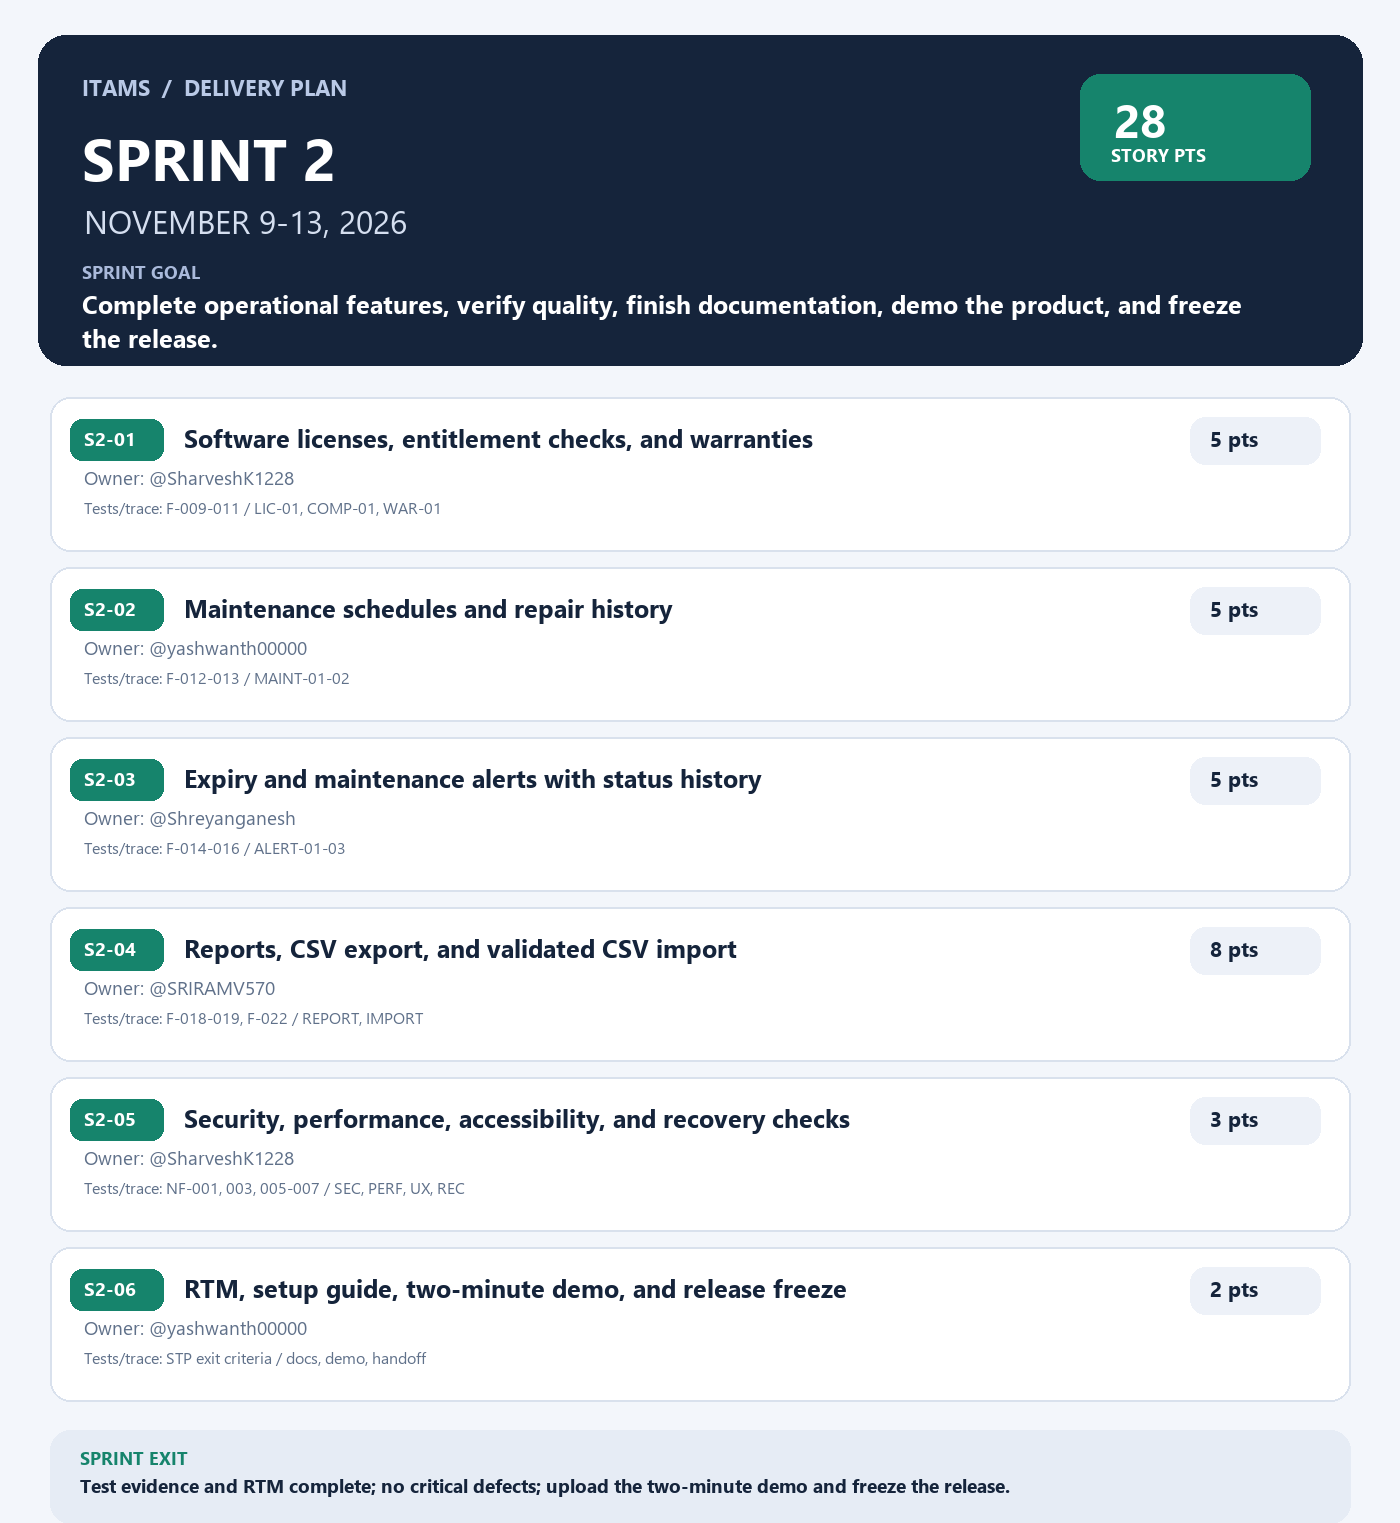
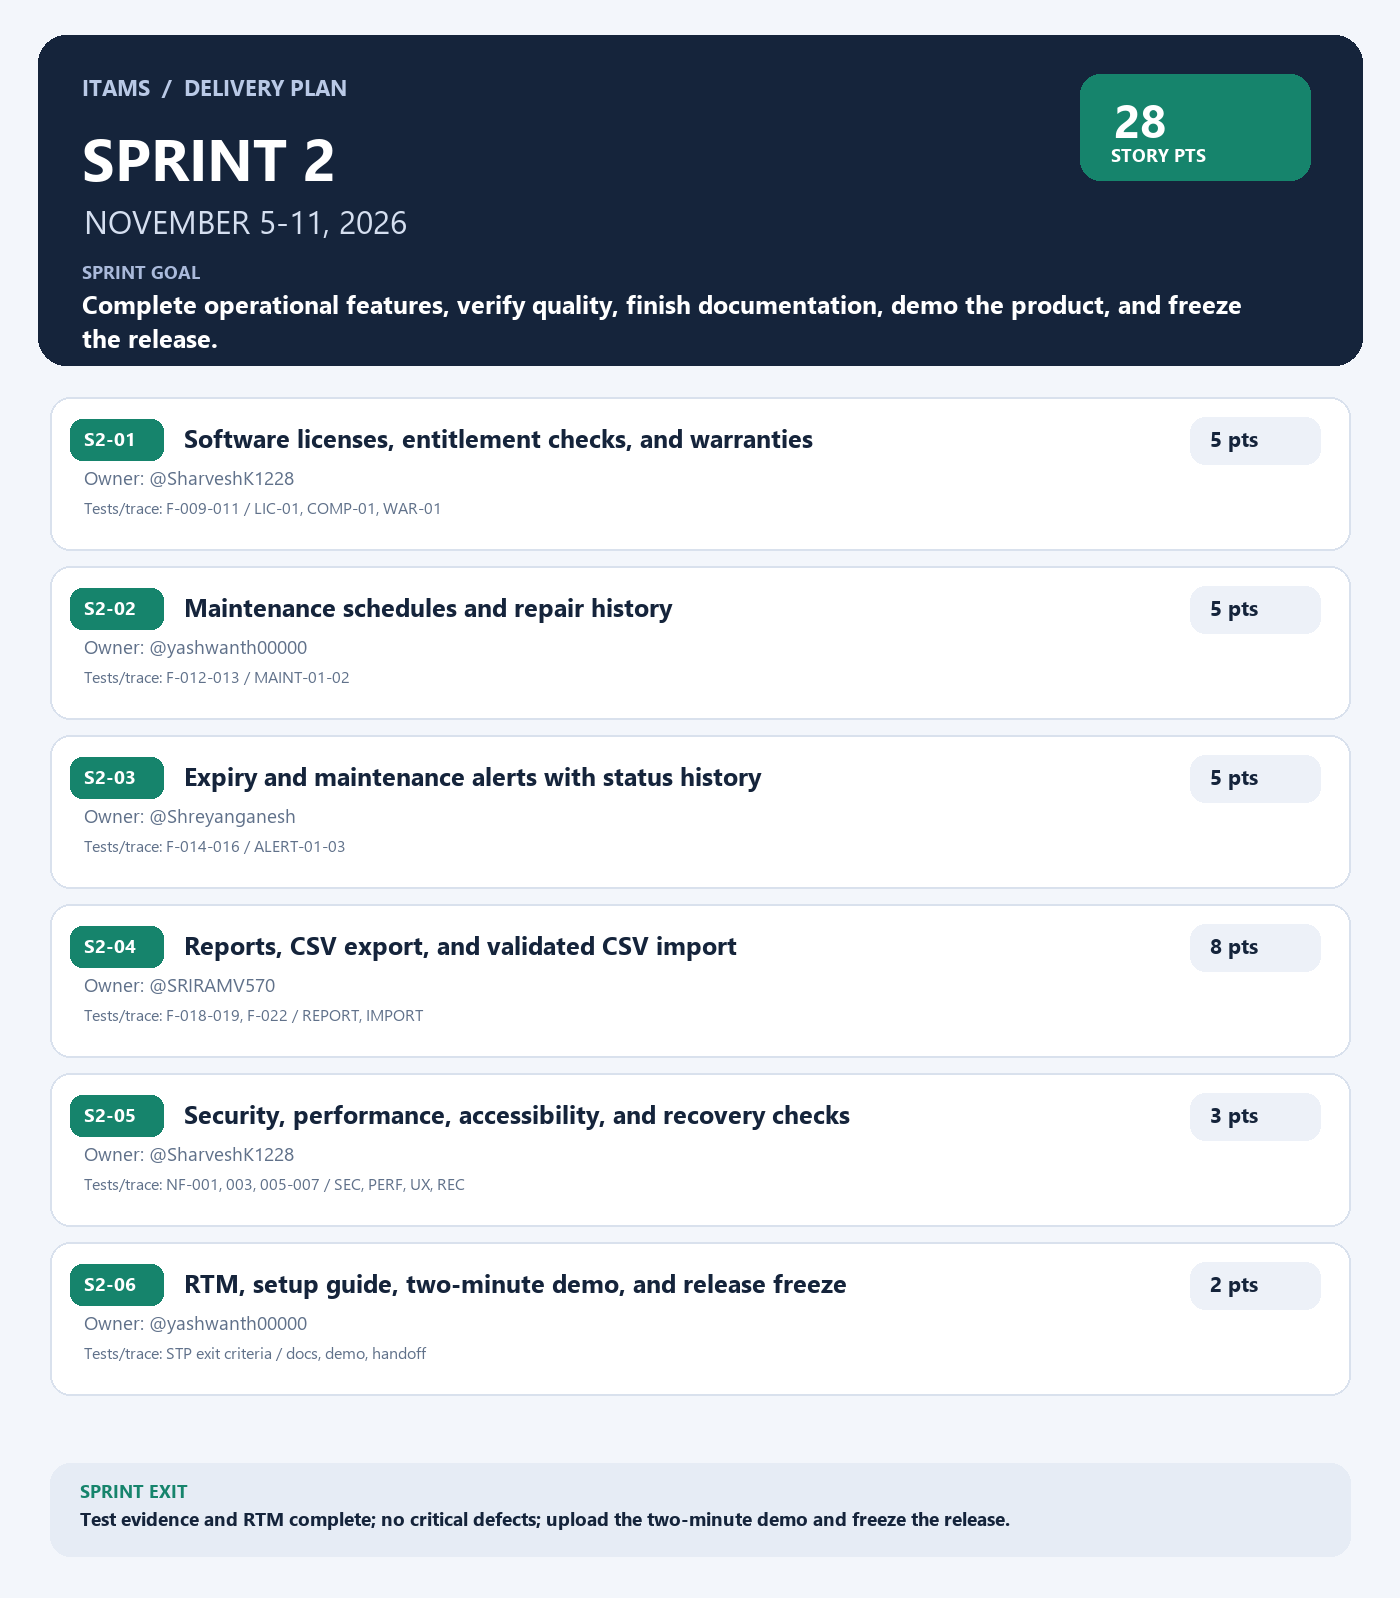
Move sprint schedule to start today

diff --git a/docs/sprints/GITHUB_ISSUES.md b/docs/sprints/GITHUB_ISSUES.md
@@ -4,7 +4,7 @@ Create one GitHub issue per section, then add it to **ITAMS Delivery Plan** and 
 
 ## S1-01 — Add authentication and server-side role-based access
 
-- **Sprint:** Sprint 1 (Nov 2–6, 2026)
+- **Sprint:** Sprint 1 (Oct 29–Nov 4, 2026)
 - **Assignee:** @SRIRAMV570
 - **Story points:** 8
 - **Priority:** P0
@@ -20,7 +20,7 @@ Create one GitHub issue per section, then add it to **ITAMS Delivery Plan** and 
 
 ## S1-02 — Complete asset editing, reassignment, transfer, and lifecycle history
 
-- **Sprint:** Sprint 1 (Nov 2–6, 2026)
+- **Sprint:** Sprint 1 (Oct 29–Nov 4, 2026)
 - **Assignee:** @SharveshK1228
 - **Story points:** 5
 - **Priority:** P0
@@ -36,7 +36,7 @@ Create one GitHub issue per section, then add it to **ITAMS Delivery Plan** and 
 
 ## S1-03 — Record audit events for important asset and allocation changes
 
-- **Sprint:** Sprint 1 (Nov 2–6, 2026)
+- **Sprint:** Sprint 1 (Oct 29–Nov 4, 2026)
 - **Assignee:** @Shreyanganesh
 - **Story points:** 5
 - **Priority:** P0
@@ -51,7 +51,7 @@ Create one GitHub issue per section, then add it to **ITAMS Delivery Plan** and 
 
 ## S1-04 — Improve dashboard summaries and keyboard-accessible form feedback
 
-- **Sprint:** Sprint 1 (Nov 2–6, 2026)
+- **Sprint:** Sprint 1 (Oct 29–Nov 4, 2026)
 - **Assignee:** @yashwanth00000
 - **Story points:** 3
 - **Priority:** P1
@@ -66,7 +66,7 @@ Create one GitHub issue per section, then add it to **ITAMS Delivery Plan** and 
 
 ## S1-05 — Validate working increment and prepare one-minute sprint demo
 
-- **Sprint:** Sprint 1 (Nov 2–6, 2026)
+- **Sprint:** Sprint 1 (Oct 29–Nov 4, 2026)
 - **Assignee:** @yashwanth00000
 - **Story points:** 2
 - **Priority:** P1
@@ -81,7 +81,7 @@ Create one GitHub issue per section, then add it to **ITAMS Delivery Plan** and 
 
 ## S2-01 — Track software licenses, entitlement compliance, and warranties
 
-- **Sprint:** Sprint 2 (Nov 9–13, 2026)
+- **Sprint:** Sprint 2 (Nov 5–11, 2026)
 - **Assignee:** @SharveshK1228
 - **Story points:** 5
 - **Priority:** P0
@@ -97,7 +97,7 @@ Create one GitHub issue per section, then add it to **ITAMS Delivery Plan** and 
 
 ## S2-02 — Schedule maintenance and preserve service history
 
-- **Sprint:** Sprint 2 (Nov 9–13, 2026)
+- **Sprint:** Sprint 2 (Nov 5–11, 2026)
 - **Assignee:** @yashwanth00000
 - **Story points:** 5
 - **Priority:** P0
@@ -112,7 +112,7 @@ Create one GitHub issue per section, then add it to **ITAMS Delivery Plan** and 
 
 ## S2-03 — Generate, assign, and resolve expiry and maintenance alerts
 
-- **Sprint:** Sprint 2 (Nov 9–13, 2026)
+- **Sprint:** Sprint 2 (Nov 5–11, 2026)
 - **Assignee:** @Shreyanganesh
 - **Story points:** 5
 - **Priority:** P1
@@ -128,7 +128,7 @@ Create one GitHub issue per section, then add it to **ITAMS Delivery Plan** and 
 
 ## S2-04 — Add reports, CSV export, and validated CSV import
 
-- **Sprint:** Sprint 2 (Nov 9–13, 2026)
+- **Sprint:** Sprint 2 (Nov 5–11, 2026)
 - **Assignee:** @SRIRAMV570
 - **Story points:** 8
 - **Priority:** P1
@@ -144,7 +144,7 @@ Create one GitHub issue per section, then add it to **ITAMS Delivery Plan** and 
 
 ## S2-05 — Run security, performance, compatibility, and backup/restore checks
 
-- **Sprint:** Sprint 2 (Nov 9–13, 2026)
+- **Sprint:** Sprint 2 (Nov 5–11, 2026)
 - **Assignee:** @SharveshK1228
 - **Story points:** 3
 - **Priority:** P0
@@ -160,7 +160,7 @@ Create one GitHub issue per section, then add it to **ITAMS Delivery Plan** and 
 
 ## S2-06 — Finish RTM and setup guide, record two-minute demo, freeze release
 
-- **Sprint:** Sprint 2 (Nov 9–13, 2026)
+- **Sprint:** Sprint 2 (Nov 5–11, 2026)
 - **Assignee:** @yashwanth00000
 - **Story points:** 2
 - **Priority:** P1

diff --git a/docs/sprints/SPRINT_PLAN.md b/docs/sprints/SPRINT_PLAN.md
@@ -17,11 +17,11 @@ Story points use the Fibonacci scale. These are planning estimates, not measured
 
 ## Existing work to bring into the project
 
-The asset-inventory MVP and GitHub Actions pytest workflow are already pushed to `feature/ci-tests` (which includes `feature/asset-inventory-mvp`). Before Sprint 1 starts, open one PR from `feature/ci-tests` to `main`, have a teammate review it, confirm CI passes, and merge it. This provides the team a common baseline; do not copy these features into new backlog cards.
+The asset-inventory MVP and GitHub Actions pytest workflow are already pushed to `feature/ci-tests` (which includes `feature/asset-inventory-mvp`). At Sprint 1 kickoff, open one PR from `feature/ci-tests` to `main`, have a teammate review it, confirm CI passes, and merge it before building on the MVP. This provides the team a common baseline; do not copy these features into new backlog cards.
 
 ## Sprint 1 — Working product
 
-**Dates:** November 2–6, 2026
+**Dates:** October 29–November 4, 2026 (five working days)
 **Goal:** Deliver a protected, auditable asset-management product that the team can run and demonstrate.
 **Total:** 23 points
 
@@ -45,7 +45,7 @@ The asset-inventory MVP and GitHub Actions pytest workflow are already pushed to
 
 ## Sprint 2 — Complete, document, demo, and freeze
 
-**Dates:** November 9–13, 2026
+**Dates:** November 5–11, 2026 (five working days)
 **Goal:** Complete the high-priority operational features, verify quality, finish documentation, and freeze a reproducible demo build.
 **Total:** 28 points
 
@@ -83,7 +83,7 @@ The asset-inventory MVP and GitHub Actions pytest workflow are already pushed to
 Create a repository-linked GitHub Project named **ITAMS Delivery Plan** and add fields:
 
 - **Status:** Backlog, Ready, In Progress, In Review, Done
-- **Sprint:** Sprint 1 (Nov 2–6), Sprint 2 (Nov 9–13)
+- **Sprint:** Sprint 1 (Oct 29–Nov 4), Sprint 2 (Nov 5–11)
 - **Story points:** Number
 - **Priority:** P0, P1, P2
 
